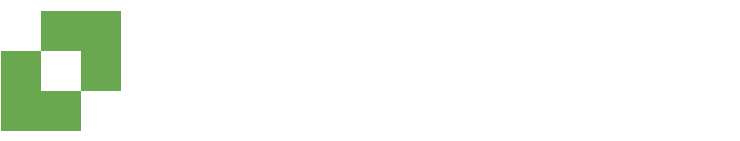
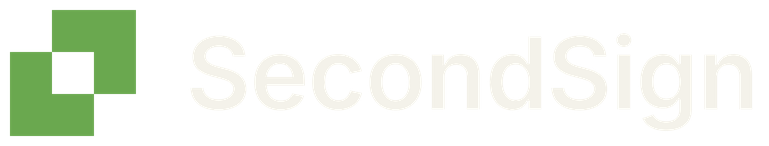
docs: put the horizontal lockup back in the README header
The stacked wordmark sat the mark above the name and read as two
elements. Use the horizontal lockup instead - mark left, name right on
one line - regenerated in Inter 600 at the site's own proportions so the
README, secondsignruntime.com and the OG card show the same mark.

Changed region(s): [[0.0, 0.0567, 0.1865, 0.9362]]

diff --git a/README.md b/README.md
@@ -1,7 +1,7 @@
 <p align="center">
   <picture>
-    <source media="(prefers-color-scheme: dark)" srcset="docs/assets/secondsign-wordmark-dark2.png">
-    <img src="docs/assets/secondsign-wordmark2.png" alt="SecondSign" width="180">
+    <source media="(prefers-color-scheme: dark)" srcset="docs/assets/secondsign-wordmark-dark.png">
+    <img src="docs/assets/secondsign-wordmark.png" alt="SecondSign" width="320">
   </picture>
 </p>
 
